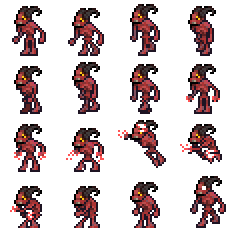
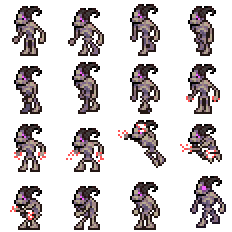
feat: Recolor 'Fallen Schemer' to be more distinct.

diff --git a/Content/Conflux/Fallen.cs b/Content/Conflux/Fallen.cs
@@ -111,35 +111,11 @@ internal sealed class FallenSavage : Fallen
 /// <summary> Sneaky fast-speed demon that teleports at the player.  </summary>
 internal sealed class FallenSchemer : Fallen
 {
-	private static readonly SpriteAnimation animIdle = new()
-	{
-		Id = "idle",
-		Frames = [0],
-	};
-	private static readonly SpriteAnimation animWalk = new()
-	{
-		Id = "walk",
-		Frames = [1, 2, 3, 4, 5, 6],
-	};
-	private static readonly SpriteAnimation animJump = new()
-	{
-		Id = "jump",
-		Frames = [2],
-		Speed = 4f,
-		Loop = true,
-	};
-	private static readonly SpriteAnimation animAttack = new()
-	{
-		Id = "attack",
-		Frames = [7, 7, 8, 9, 9, 10, 10, 11, 12, 13, 13, 13, 13, 14],
-		Speed = 17f,
-		Loop = false,
-	};
-	private static readonly SpriteAnimation animTeleport = new()
-	{
-		Id = "teleport",
-		Frames = [15],
-	};
+	private static readonly SpriteAnimation animIdle = new() { Id = "idle", Frames = [0] };
+	private static readonly SpriteAnimation animWalk = new() { Id = "walk", Frames = [1, 2, 3, 4, 5, 6] };
+	private static readonly SpriteAnimation animJump = new() { Id = "jump", Frames = [2], Speed = 4f };
+	private static readonly SpriteAnimation animAttack = new() { Id = "attack", Frames = [7, 7, 8, 9, 9, 10, 10, 11, 12, 13, 13, 13, 13, 14], Speed = 17f, Loop = false };
+	private static readonly SpriteAnimation animTeleport = new() { Id = "teleport", Frames = [15] };
 
 	private Vector2 teleportSource;
 	private Vector2 teleportTarget;
@@ -408,30 +384,10 @@ internal abstract class Fallen : ModNPC
 		Teleport,
 	}
 
-	private static readonly SpriteAnimation animIdle = new()
-	{
-		Id = "idle",
-		Frames = [1],
-	};
-	private static readonly SpriteAnimation animWalk = new()
-	{
-		Id = "walk",
-		Frames = [0, 1, 2, 3, 4, 5],
-	};
-	private static readonly SpriteAnimation animJump = new()
-	{
-		Id = "jump",
-		Frames = [2],
-		Speed = 4f,
-		Loop = true,
-	};
-	private static readonly SpriteAnimation animAttack = new()
-	{
-		Id = "attack",
-		Frames = [1, 1, 1, 4, 5, 5, 5],
-		Speed = 9f,
-		Loop = false,
-	};
+	private static readonly SpriteAnimation animIdle = new() { Id = "idle", Frames = [1] };
+	private static readonly SpriteAnimation animWalk = new() { Id = "walk", Frames = [0, 1, 2, 3, 4, 5] };
+	private static readonly SpriteAnimation animJump = new() { Id = "jump", Frames = [2], Speed = 4f };
+	private static readonly SpriteAnimation animAttack = new() { Id = "attack", Frames = [1, 1, 1, 4, 5, 5, 5], Speed = 9f, Loop = false };
 
 	private Footsteps footsteps = new();
 	protected AttackInstance? Attack;
